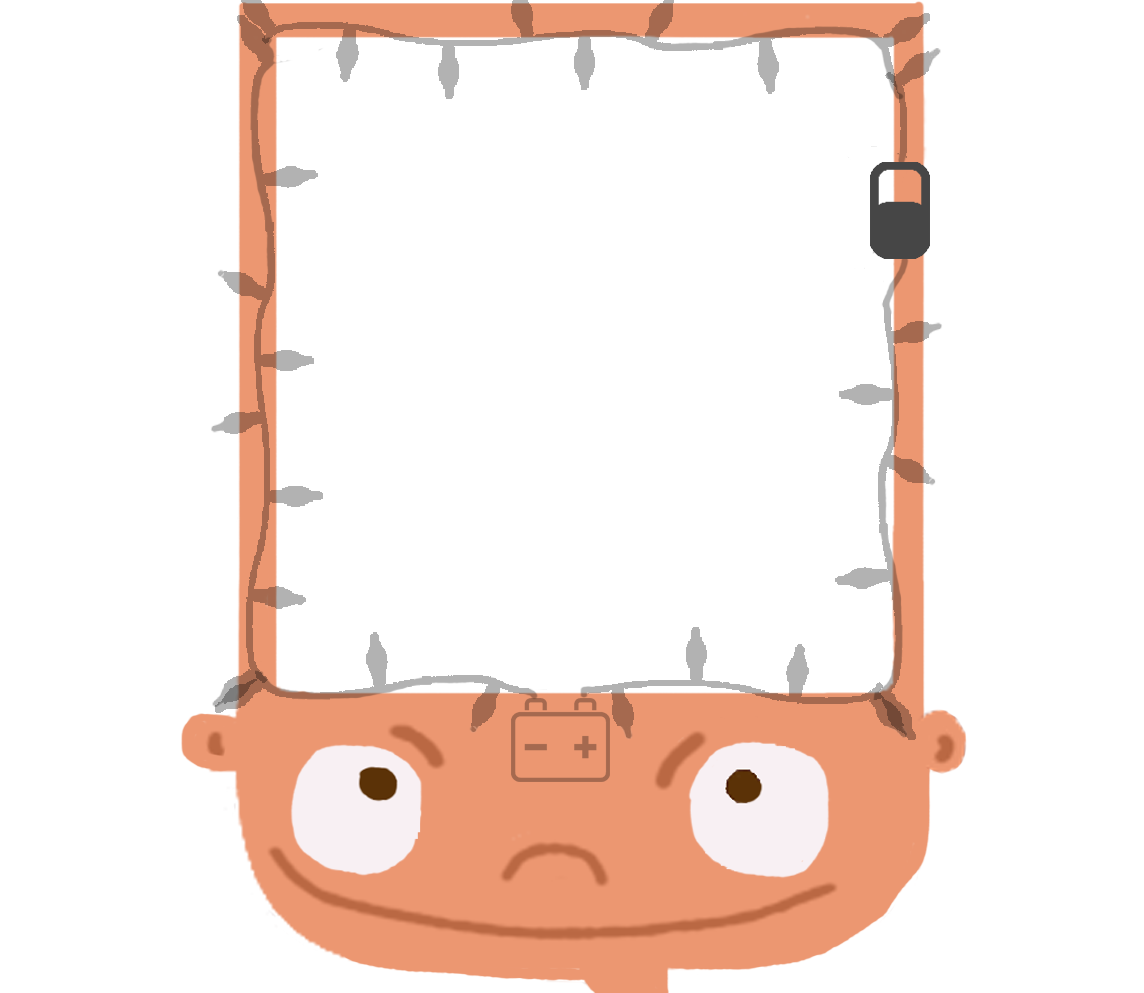
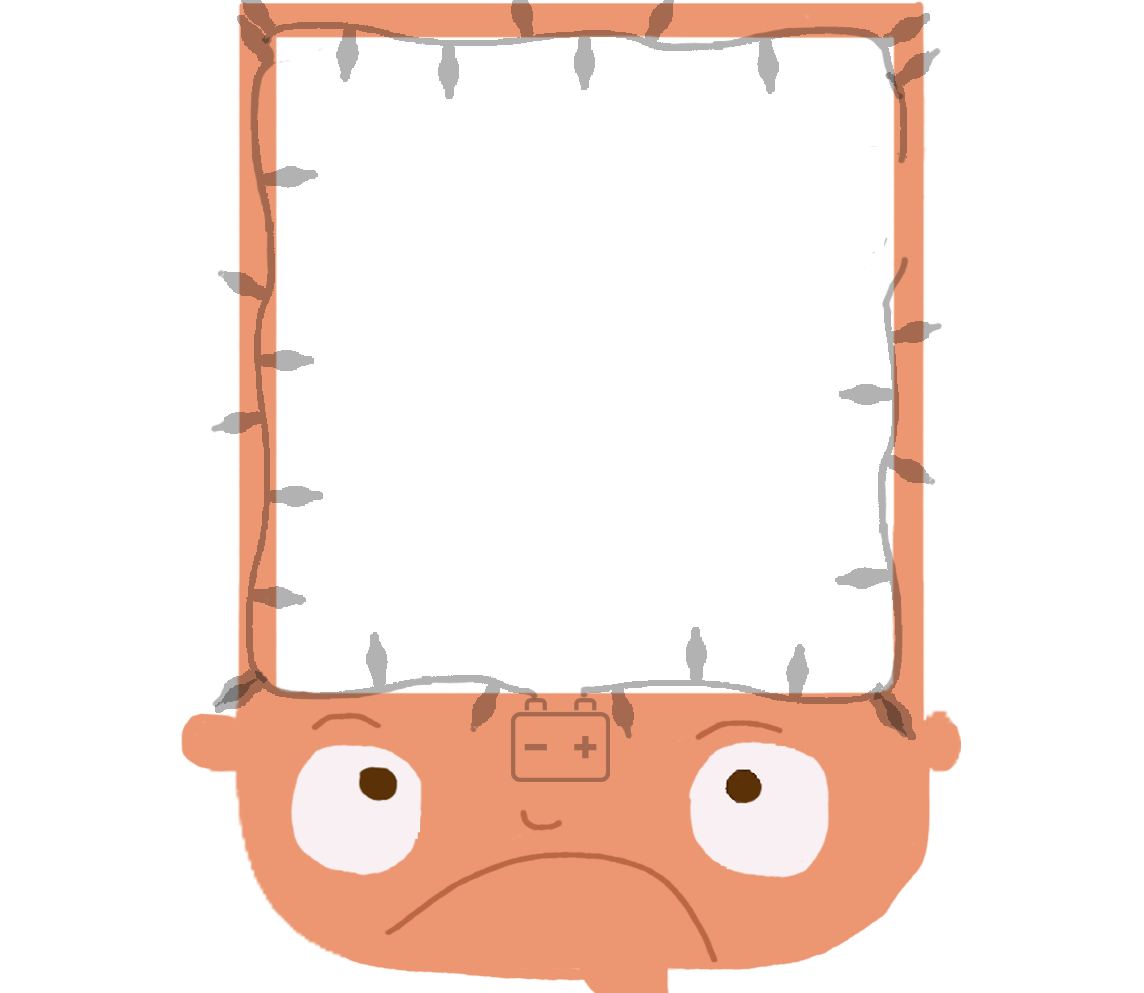
animation works, button image doesn't load

diff --git a/Elec&Me_MainPage.html b/Elec&Me_MainPage.html
@@ -47,17 +47,47 @@
     <!--</style>-->
 </head>
 <body>
-<img id="myImage" onclick="changeImage()" 
+<div class="containerdiv">
+    <!--Default image is when switch is off and the circuit is in OFF situation-->
+    <!--<img class="cornerimage" id="mySwitch" onclick="changeImage()" src="Img/switch_OFF.png" alt="off switch">-->
+
+</div>
+<img class="containerdiv" id="myImage" src="Img/Thinking_kid_TurnOFF.png" alt="off circuit">
+<img class="cornerimage" id="mySwitch" onclick="changeImage()" src="Img/switch_OFF.png" alt="off switch">
+
+<!--&lt;!&ndash;Default image is when switch is off and the circuit is in OFF situation&ndash;&gt;-->
+<!--<img id="mySwitch" onclick="changeImage()" src="Img/switch_OFF.png" alt="off switch">-->
+<!--<img id="myImage" src="Img/Thinking_kid_TurnOFF.png" alt="off circuit">-->
+<!--when player clicks on the switch, it should change the image to On or Off depending on the previous state-->
+
 <script type="text/javascript">
     var shouldIChangeTheBackground = false;
     function  changeImage() {
-        var image = document.getElementById('myImage');
-        if(image.src.match("turnedOn"))
+        var mySwitchImage = document.getElementById('mySwitch');
+        var myCircuitImage = document.getElementById('myImage');
+        if(mySwitchImage.src.match("switch_ON") && myCircuitImage.src.match("Thinking_kid_TurnON"))
         {
-            image.src = ""; //name of the image saved in file for turn Off image
+            shouldIChangeTheBackground = false;
+            mySwitchImage.src = "Img/switch_OFF"; //name of the image saved in file for turn Off switch
+            mySwitchImage.className = "cornerimage";
+            myCircuitImage.src = "Img/Thinking_kid_TurnOFF.png";
+            myCircuitImage.className ="containerdiv";
+
         }
-        else {
-            image.src = ""; //name of the image for turning On
+        else if(mySwitchImage.src.match("switch_OFF") && myCircuitImage.src.match("Thinking_kid_TurnOFF")) {
+            shouldIChangeTheBackground = true;
+            mySwitchImage.src = "Img/switch_ON"; //name of the image for turning On
+            mySwitchImage.className = "cornerimage";
+            myCircuitImage.src = "Img/Thinking_kid_TurnON.png";
+            myCircuitImage.className ="containerdiv";
+        }
+        //if none of the conditions are met, set both images to off
+        else{
+            mySwitchImage.src = "Img/switch_OFF"; //name of the image saved in file for turn Off switch
+            mySwitchImage.className = "cornerimage";
+            myCircuitImage.src = "Img/Thinking_kid_TurnOFF.png";
+            myCircuitImage.className ="containerdiv";
+
         }
 
     }
@@ -66,13 +96,13 @@
 
 </div>
 <div id="nav">
-    <a href="Elec&Me_MainPage.html" class="nav-active">Main</a><br>
-    <a href="Elec&Me_Blog.html" class="nav">Blog</a><br>
-    <a href="Elec&Me_DownloadPage.html" class="nav">Download</a><br>
-    <a href="Elec&Me_SoftwareHardwaresUsed.html" class="nav">Tools used</a><br>
-    <a href="Elec&Me_HowDoesItWork.html" class="nav">How it works</a><br>
-    <a href="Elec&Me_STEM.html" class="nav">Related Articles</a><br>
-    <a href="Elec&Me_AboutDesigner.html" class="nav">About Designer</a><br>
+    <a href="Elec&Me_MainPage.html" class="nav-active">Main</a>
+    <a href="Elec&Me_Blog.html" class="nav">Blog</a>
+    <a href="Elec&Me_DownloadPage.html" class="nav">Download</a>
+    <a href="Elec&Me_SoftwareHardwaresUsed.html" class="nav">Tools used</a>
+    <a href="Elec&Me_HowDoesItWork.html" class="nav">How it works</a>
+    <a href="Elec&Me_STEM.html" class="nav">Related Articles</a>
+    <a href="Elec&Me_AboutDesigner.html" class="nav">About Designer</a>
 
 </div>
 

diff --git a/Elec&Me_Stylesheet.css b/Elec&Me_Stylesheet.css
@@ -2,10 +2,10 @@ body{
     font-family: "verdana", sans-serif;
     margin: 40px;
     background-color: darkgreen;
-    background-image: url("Img/Thinking_kid2.png");
-    background-repeat: no-repeat;
-    background-attachment: fixed;
-    background-position: 0px 95px;
+    /*background-image: url("Img/Thinking_kid2.png");*/
+    /*background-repeat: no-repeat;*/
+    /*background-attachment: fixed;*/
+    /*background-position: 0px 95px;*/
 }
 #container {
     width:100%;
@@ -42,3 +42,11 @@ body{
 .nav:hover{
     text-decoration: underline;
 }
+
+.containerdiv {
+    float: left;
+    position: relative; }
+.cornerimage {
+    position: absolute;
+    top: 120px;
+    right: 100px; }
